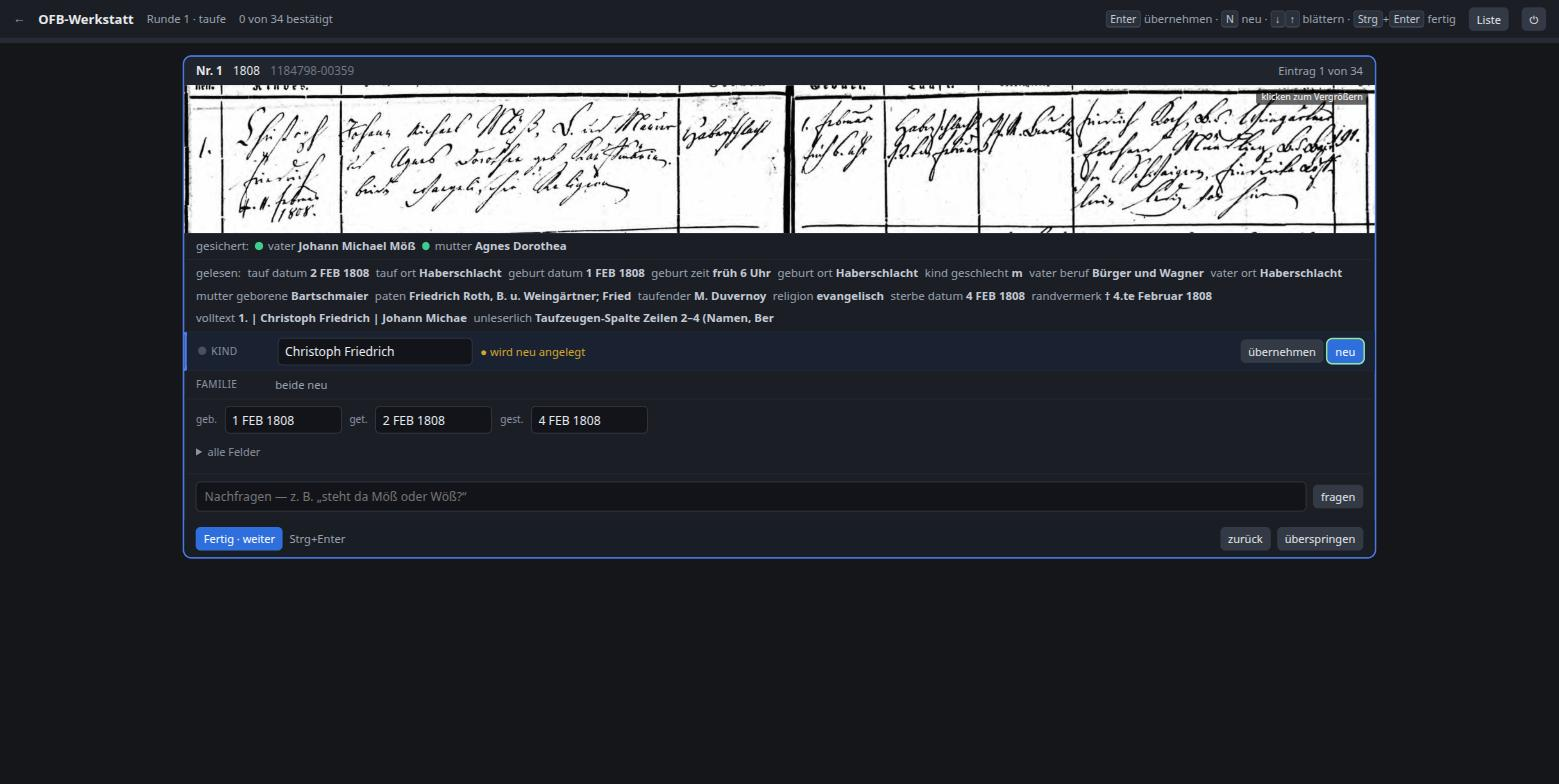
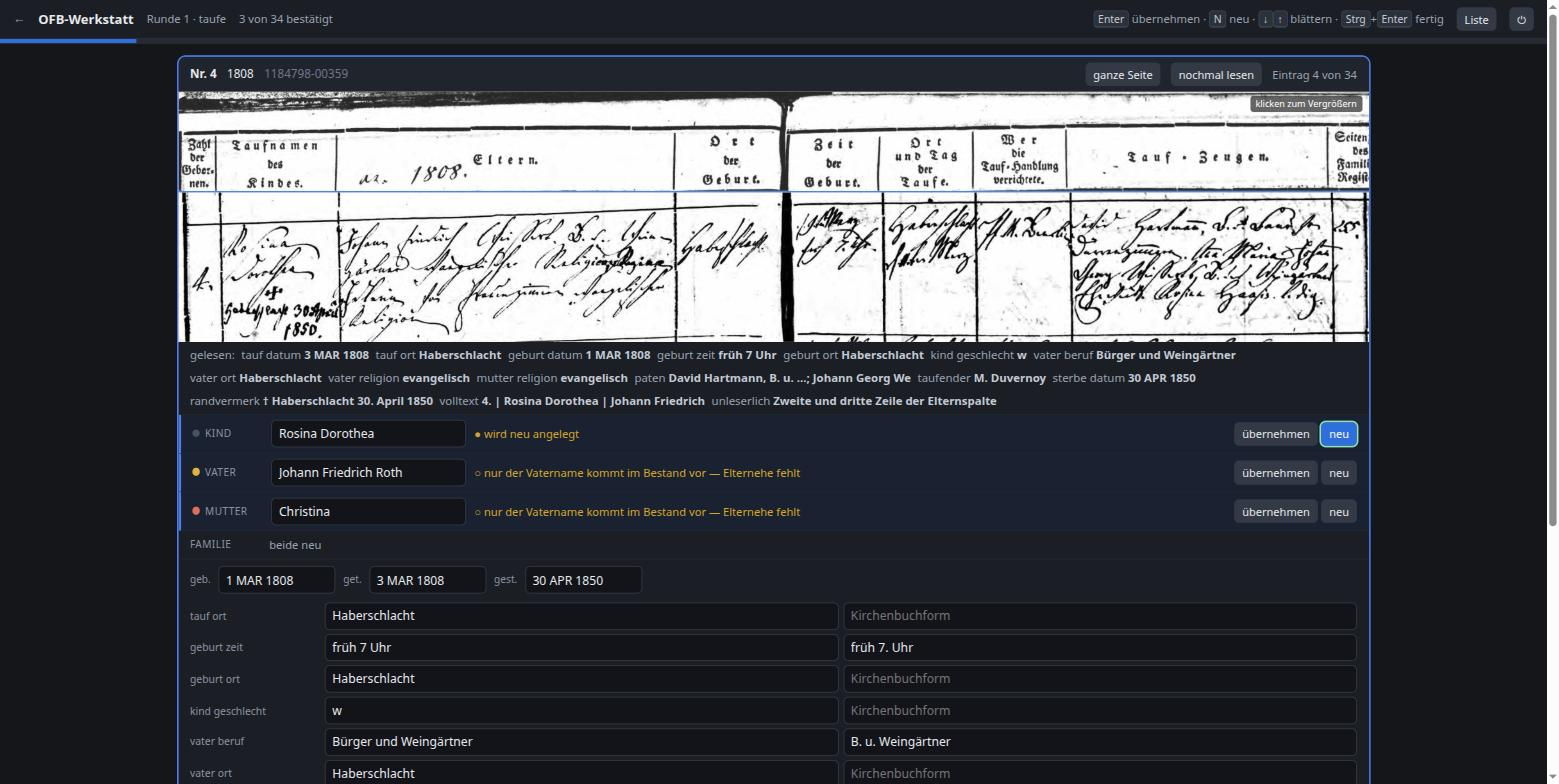
Screenshot der Korrekturmaske auf den Stand
Er zeigte die Maske vor dem Spaltenkopf und den beiden Knoepfen. Jetzt
mit Kopfband ueber dem Streifen, 'ganze Seite', 'nochmal lesen' und den
Feldern in beiden Formen nebeneinander.

diff --git a/README.md b/README.md
@@ -159,10 +159,13 @@ ihrem Rang — nur was *bestätigen* darf, macht grün:
 
 ![Einstellungen](doku/screenshots/einstellungen.jpg)
 
-Die Korrekturmaske, ein Eintrag zur Zeit: oben der Bildstreifen des
-Originaleintrags, darunter was der Abgleich gesichert hat, was gelesen wurde,
-und die Felder, die eine Entscheidung brauchen. Das Nachfragen-Feld stellt
-Fragen direkt am Eintrag („steht da Möß oder Wöß?"):
+Die Korrekturmaske, ein Eintrag zur Zeit. Oben der gedruckte Spaltenkopf
+und darunter, auf dieselbe Breite geschnitten, die Zeile des Originals —
+über beide Buchseiten hinweg, denn ein Eintrag läuft über den Bund. Dann
+was der Abgleich gesichert hat, was gelesen wurde, und die Felder, die
+eine Entscheidung brauchen. *Ganze Seite* zeigt die Buchöffnung mit
+markierter Zeile, *nochmal lesen* liest dieselbe Zeile ein zweites Mal und
+stellt die Unterschiede gegenüber:
 
 ![Korrigieren](doku/screenshots/korrigieren.jpg)
 
